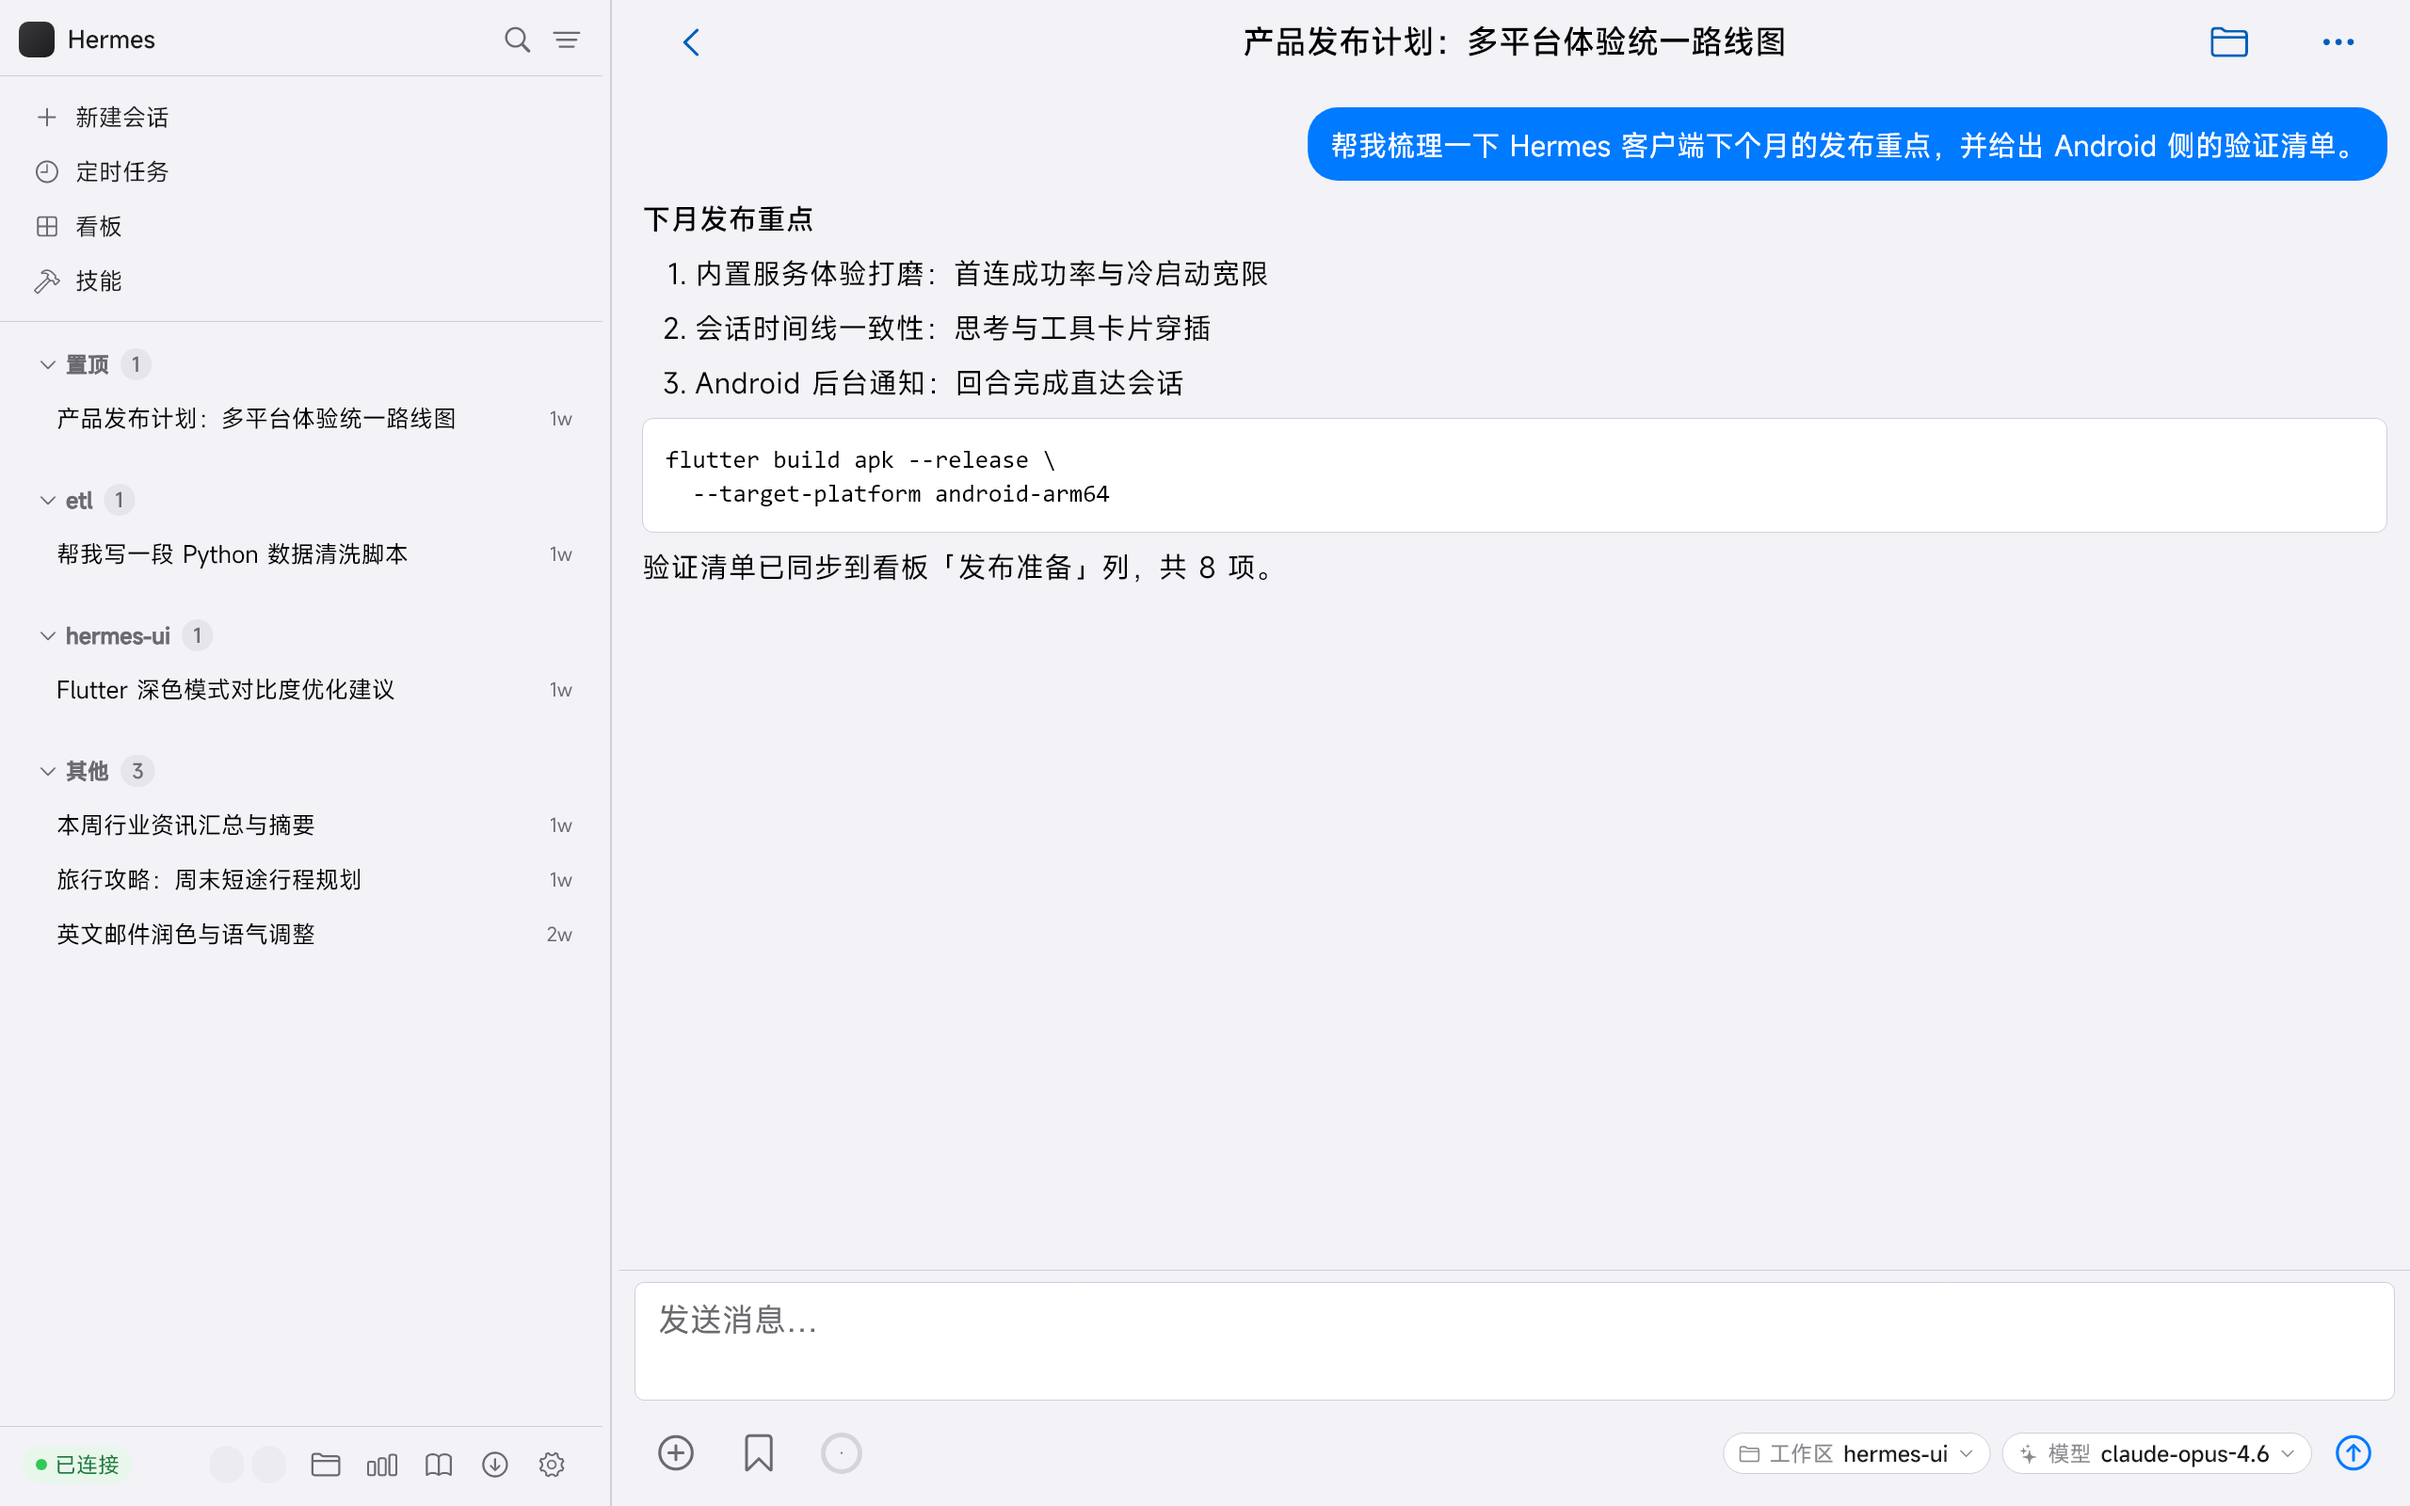
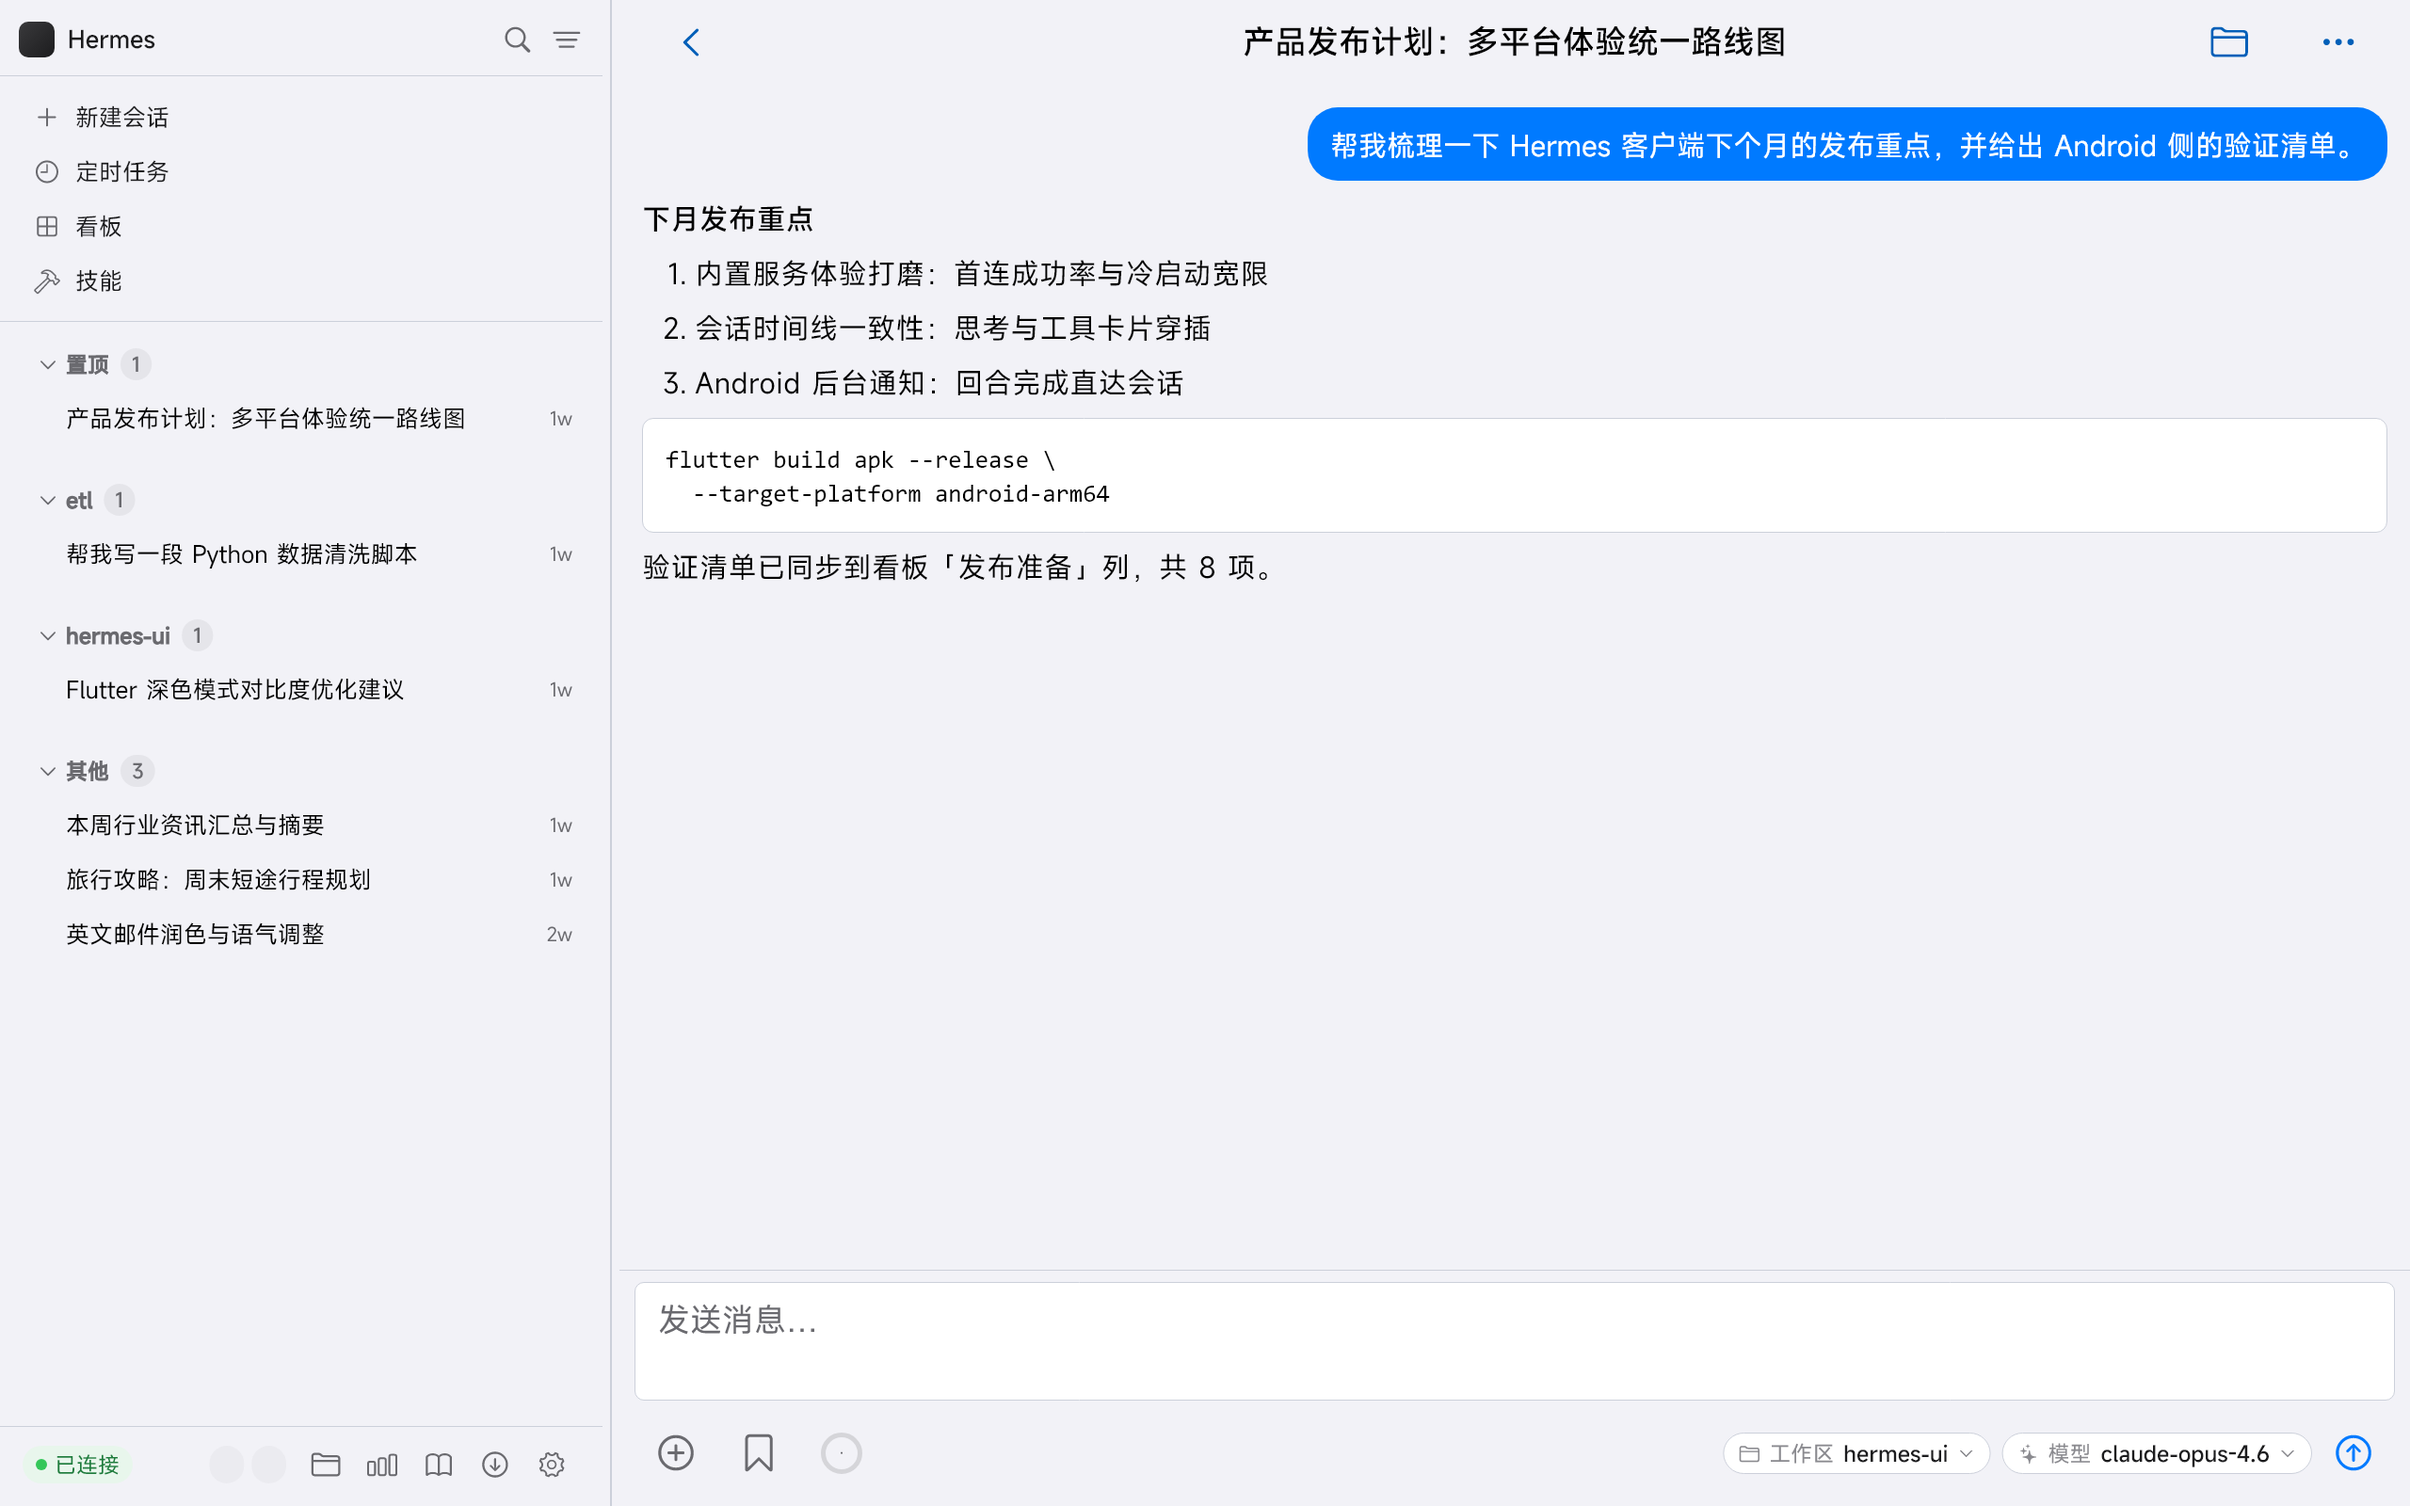
fix(shell): 会话项与工作区名左对齐 + 恢复进行中 loading 指示（#152）
主人两条反馈：

1. **会话项应与工作区名左对齐**。上一轮的 `start: 22` 偏左 5pt：几何上
   组头文字 x = 组头 Padding.start(20) + chevron(11) + gap(4) = 35pt，而
   会话项文字 x = 列表内缩(8) + 行 padding.start(22) = 30pt。
   ⇒ 改为 `start: 27`（8 + 27 = 35），并把几何依据写进注释。
   像素级实测（README 截图原图坐标）：组头文字 x=73、会话项 x=71，差 1pt
   （亚像素级），视觉同一垂直线。

2. **恢复「进行中」loading 指示**（回归修复）。它原本位于行尾 actions 块内，
   上一轮为「去掉三点」把该块在紧凑模式下整体隐藏时被连坐 ⇒ 进行中的会话
   在侧栏看不到任何动效，而金照（窄屏）仍显示，形成不一致。
   修：紧凑模式右侧槽改为**优先级三态** ——
   ① 进行中 → loading 圈（最高优先，不被悬停覆盖，key
   `session-inline-streaming-<id>`）
   ② 悬停 → 「⋯」菜单按钮
   ③ 其余 → 极简相对时间
   窄屏（手机）行尾 actions 块语义不变。

验收：analyze 零告警；`test/features/session_list/` + `test/app/` **505 全绿**；
金照 `session_list_light/dark` 更新并**人眼复检**（确认「正在生成的会话」行
右侧为 loading 圈、其余行为 ⋯、无分隔线、无豆腐块/裁切/溢出）。

diff --git a/lib/features/session_list/session_list_page.dart b/lib/features/session_list/session_list_page.dart
@@ -1691,10 +1691,12 @@ class _SessionRowState extends State<_SessionRow> {
         ? _compactTrailingLabel(widget.session)
         : null;
     final rowContent = Padding(
-      // #151：紧凑模式会话项左缩进加大（视觉上从属于所属工作区组），
+      // #151/#152：紧凑模式会话项与「工作区名」左对齐（主人要求）。
+      // 几何：组头文字 x = 组头 Padding.start(20) + chevron(11) + gap(4) = 35；
+      //       会话项文字 x = 列表内缩(8) + 本 padding.start ⇒ 8 + 27 = 35 ✔
       // 右侧保持 8 让时间贴边；手机保持原 16/8。
       padding: EdgeInsetsDirectional.only(
-        start: widget.compact ? 22 : 16,
+        start: widget.compact ? 27 : 16,
         end: widget.compact ? 8 : 16,
         top: widget.compact ? 6 : 8,
         bottom: widget.compact ? 6 : 8,
@@ -1746,9 +1748,23 @@ class _SessionRowState extends State<_SessionRow> {
                           style: const TextStyle(fontSize: 17),
                         ),
                       ),
-                    // #151：紧凑模式右侧槽 —— 悬停时把「时间」换成「⋯」菜单按钮，
-                    // 未悬停时显示极简相对时间（2h / 昨天 / 3d），右对齐。
-                    if (widget.compact && _hovering && widget.onActions != null) ...[
+                    // #151：紧凑模式右侧槽，按优先级三态（右对齐）：
+                    //   ① 会话进行中 → loading 指示器（最高优先，不可被悬停盖掉）
+                    //   ② 鼠标悬停    → 「⋯」菜单按钮
+                    //   ③ 其余        → 极简相对时间（2h / 昨天 / 3d）
+                    if (widget.compact && isStreaming) ...[
+                      const SizedBox(width: 6),
+                      CupertinoActivityIndicator(
+                        key: ValueKey(
+                          'session-inline-streaming-'
+                          '${widget.session.sessionId ?? widget.session.id}',
+                        ),
+                        radius: 6,
+                        color: secondaryColor,
+                      ),
+                    ] else if (widget.compact &&
+                        _hovering &&
+                        widget.onActions != null) ...[
                       const SizedBox(width: 6),
                       _buildInlineActionsButton(context),
                     ] else if (widget.compact &&
